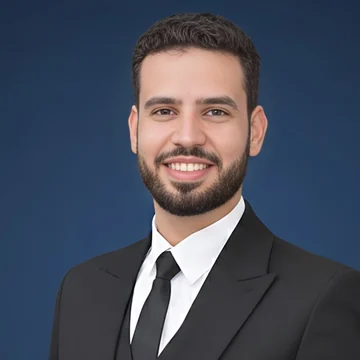
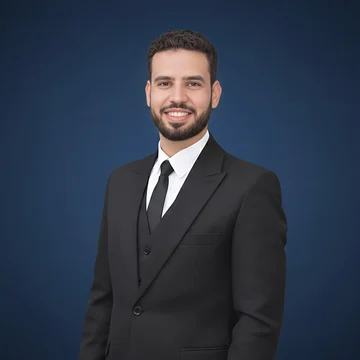
Add files via upload

diff --git a/index.html b/index.html
@@ -17,9 +17,9 @@
 <style>
 /* Layout: a phone app — content column + fixed bottom tab bar (home, book, booking & branches, news). */
 :root {
-  --bg: #F4F8F8; --card: #FFFFFF; --ink: #183747; --muted: #607681; --line: #DFE9E9;
-  --navy: #173D4B; --navy-2: #1E6C70; --on-navy: #FFFFFF; --on-navy-muted: #D0E4E5;
-  --gold: #D58B9B; --gold-ink: #925363; --gold-soft: #FFF0F3;
+  --bg: #F7F8F6; --card: #FFFFFF; --ink: #123C52; --muted: #667C84; --line: #E3ECEB;
+  --navy: #123C52; --navy-2: #168B87; --on-navy: #FFFFFF; --on-navy-muted: #D4EDEB;
+  --gold: #E9B5BF; --gold-ink: #95536B; --gold-soft: #FFF1F3;
   --wa: #168A4F; --danger: #B3261E; --danger-soft: #FBE9E7; --focus: #1C9293;
   --font: -apple-system, "SF Arabic", system-ui, "Segoe UI", "Noto Sans Arabic", Tahoma, sans-serif;
   --r: 16px;
@@ -51,7 +51,7 @@ svg.i { width: 22px; height: 22px; flex: none; }
 .page-sub { margin: -10px 0 0; color: var(--muted); font-size: 14px; }
 
 /* home hero */
-.hero { background: linear-gradient(145deg, var(--navy), #1E6C70); color: var(--on-navy); padding: calc(18px + env(safe-area-inset-top, 0px)) max(16px, env(safe-area-inset-right, 0px)) 22px max(16px, env(safe-area-inset-left, 0px)); border-radius: 0 0 28px 28px; display: grid; gap: 16px; }
+.hero { background: linear-gradient(133deg, #123C52 0%, #174D62 64%, #168B87 150%); color: var(--on-navy); padding: calc(20px + env(safe-area-inset-top, 0px)) max(16px, env(safe-area-inset-right, 0px)) 25px max(16px, env(safe-area-inset-left, 0px)); border-radius: 0 0 30px 30px; display: grid; gap: 16px; box-shadow:0 9px 26px rgba(18,60,82,.15); }
 .brand { display: flex; align-items: center; gap: 12px; }
 .brand .logo { width: 64px; height: 64px; border-radius: 18px; background: #fff; display: grid; place-items: center; overflow: hidden; flex: none; }
 .brand .logo img { width: 92%; height: auto; }
@@ -64,20 +64,21 @@ svg.i { width: 22px; height: 22px; flex: none; }
 .doctor span { font-size: 13px; color: var(--on-navy-muted); }
 
 /* cards & buttons */
-.card { background: var(--card); border: 1px solid var(--line); border-radius: 20px; padding: 16px; display: grid; gap: 12px; box-shadow: 0 4px 16px rgba(24,55,71,.035); }
+.card { background: var(--card); border: 1px solid var(--line); border-radius: 22px; padding: 17px; display: grid; gap: 12px; box-shadow: 0 6px 20px rgba(18,60,82,.045); }
 .card h2 { margin: 0; font-size: 18px; font-weight: 800; display: flex; align-items: center; justify-content: space-between; gap: 8px; }
 .card h2 small { font-size: 13px; font-weight: 500; color: var(--muted); }
 .card p { margin: 0; }
 .muted { color: var(--muted); font-size: 14px; }
 .grid2 { display: grid; grid-template-columns: minmax(0, 1fr) minmax(0, 1fr); gap: 10px; }
-.tile { display: grid; gap: 7px; align-content: start; text-align: start; text-decoration: none; background: var(--card); border: 1px solid var(--line); border-radius: 18px; padding: 15px; min-height: 116px; box-shadow: 0 4px 14px rgba(24,55,71,.035); }
+.tile { display: grid; gap: 7px; align-content: start; text-align: start; text-decoration: none; background: var(--card); border: 1px solid var(--line); border-radius: 20px; padding: 16px; min-height: 116px; box-shadow: 0 6px 18px rgba(18,60,82,.045); transition:transform .16s ease,box-shadow .16s ease; }
+.tile:active { transform:scale(.985); }
 .tile .ico { width: 40px; height: 40px; border-radius: 14px; display: grid; place-items: center; background: color-mix(in srgb, var(--navy-2) 10%, var(--card)); color: var(--navy-2); }
 .tile b { font-size: 16px; line-height: 1.3; }
 .tile span { font-size: 13px; color: var(--muted); line-height: 1.4; }
 .tile.danger .ico { background: var(--danger-soft); color: var(--danger); }
 .tile.danger b { color: var(--danger); }
 .btn { display: inline-flex; align-items: center; justify-content: center; gap: 8px; min-height: 48px; padding: 10px 16px; border-radius: 12px; border: 1px solid var(--line); background: var(--card); text-decoration: none; font-weight: 700; font-size: 15px; }
-.btn.primary { background: var(--navy); border-color: var(--navy); color: #fff; }
+.btn.primary { background: var(--navy-2); border-color: var(--navy-2); color: #fff; box-shadow:0 5px 14px rgba(22,139,135,.16); }
 .btn.wa { background: var(--wa); border-color: var(--wa); color: #fff; }
 .btn.danger { background: var(--danger); border-color: var(--danger); color: #fff; }
 .btn.gold { background: var(--gold); border-color: var(--gold); color: #fff; }
@@ -239,8 +240,8 @@ details.past summary { cursor: pointer; color: var(--muted); font-size: 14px; pa
 .brand h1 { letter-spacing: -.3px; }
 .doctor b { font-size: 15px; }
 .doctor span { display: block; margin-top: 2px; line-height: 1.5; }
-.home-welcome { display:grid; gap:10px; }
-.home-welcome .eyebrow { color:var(--muted); font-size:12px; font-weight:700; }
+.home-welcome { display:grid; gap:11px; background:var(--card); border:1px solid var(--line); border-radius:22px; padding:19px; box-shadow:0 6px 18px rgba(18,60,82,.04); }
+.home-welcome .eyebrow { color:var(--navy-2); font-size:12px; font-weight:800; }
 .home-welcome h2 { margin:0; font-size:22px; line-height:1.35; }
 .home-welcome p { margin:0; color:var(--muted); font-size:14px; }
 .home-cta { display:grid; grid-template-columns:minmax(0,1fr) minmax(0,1fr); gap:8px; }
